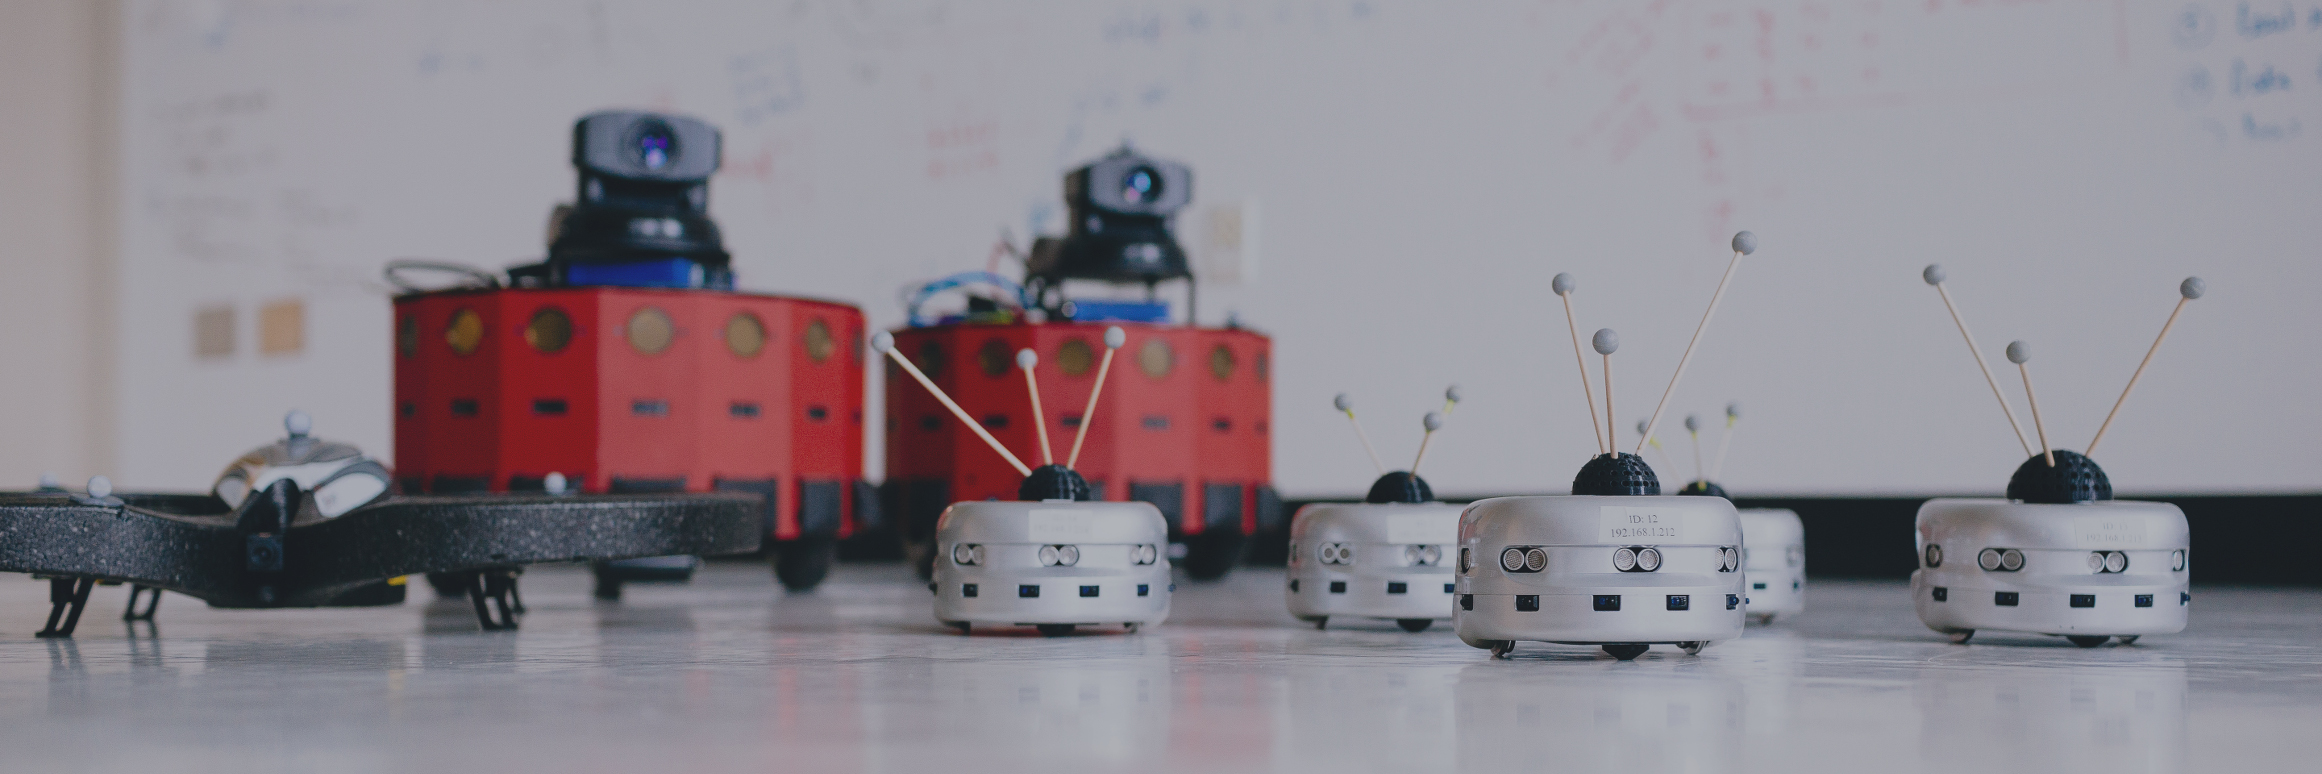
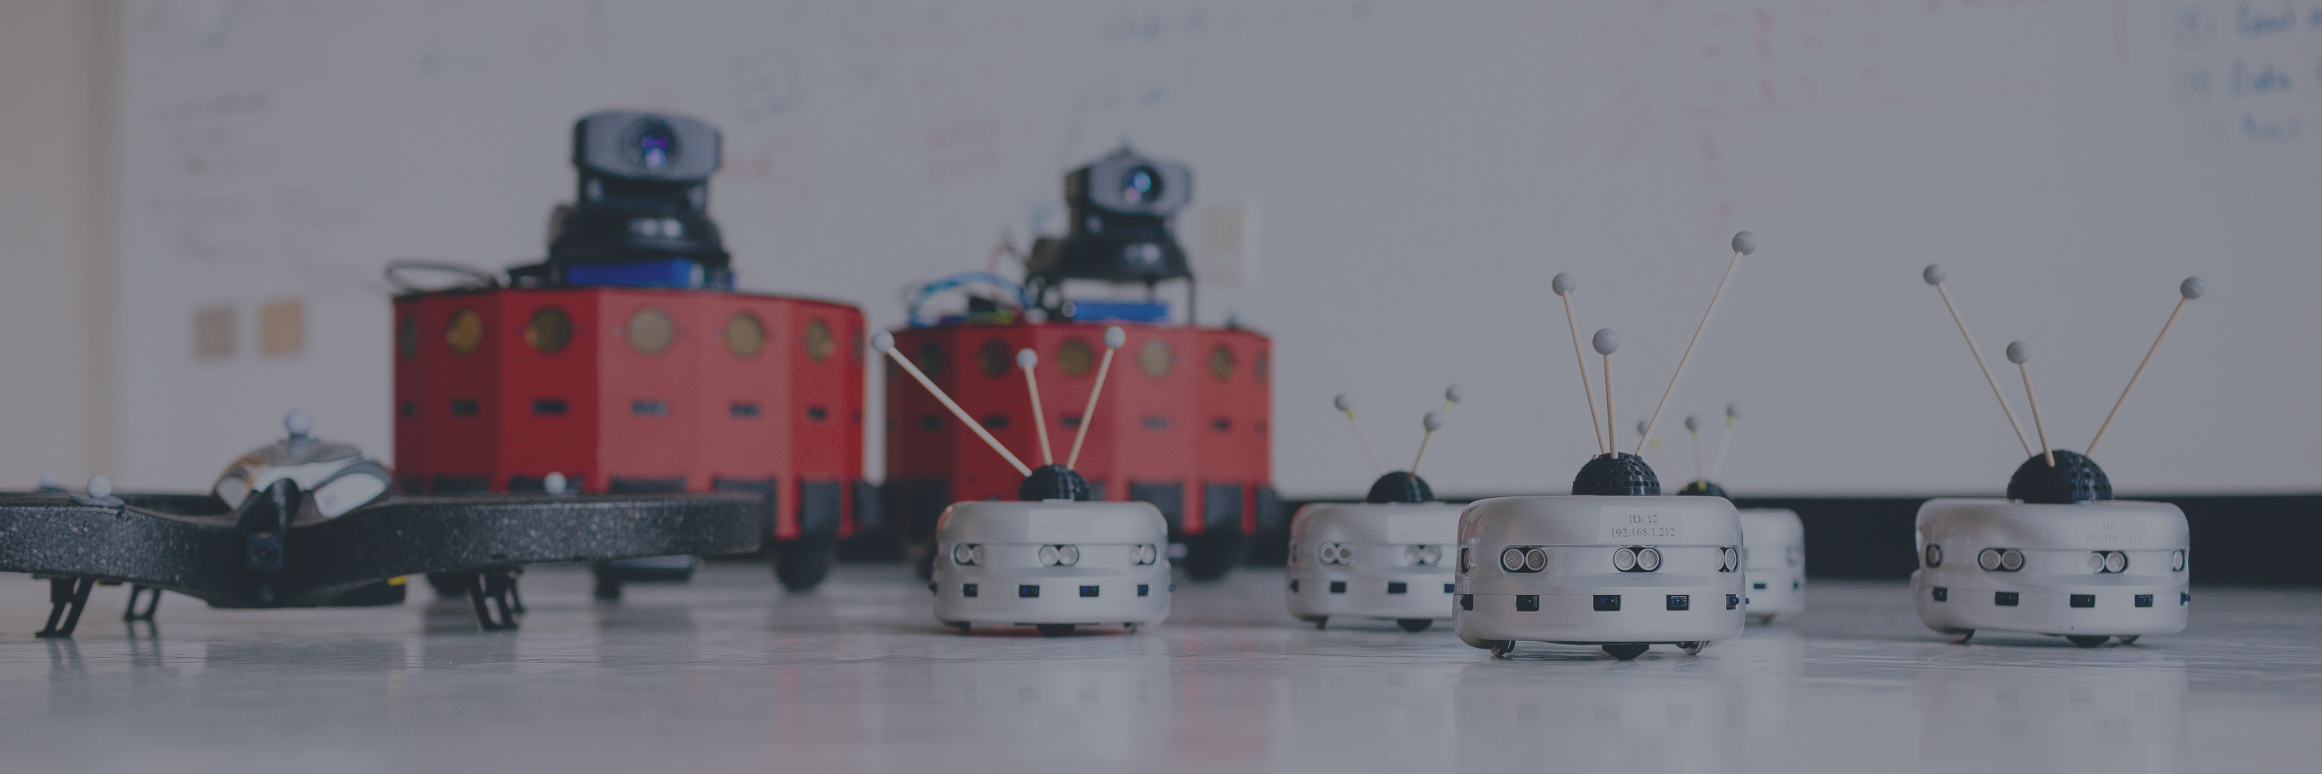
Make header image slightly darker and fixed footer.

diff --git a/_includes/footer.html b/_includes/footer.html
@@ -22,7 +22,7 @@
                         </ul>
                     </div>
                     <div class="footer-col col-md-4">
-                        <h3>Over Electronic Form</h3>
+                        <h3>Via Electronic Form</h3>
                         <a href="#contact" onclick="toggle_visibility('contact', 'on');" class="btn btn-lg btn-outline btn-special">
                             <i class="fa fa-envelope"></i> Send me a message!
                         </a>
